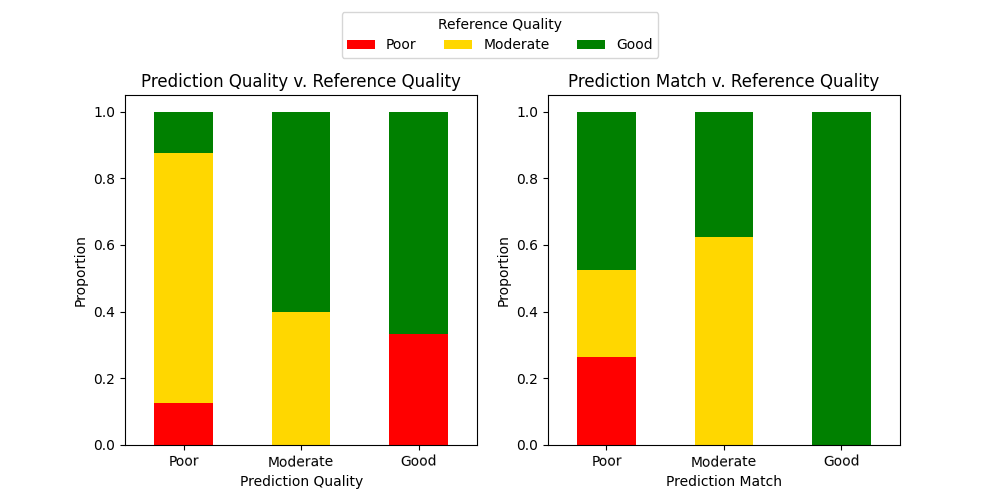
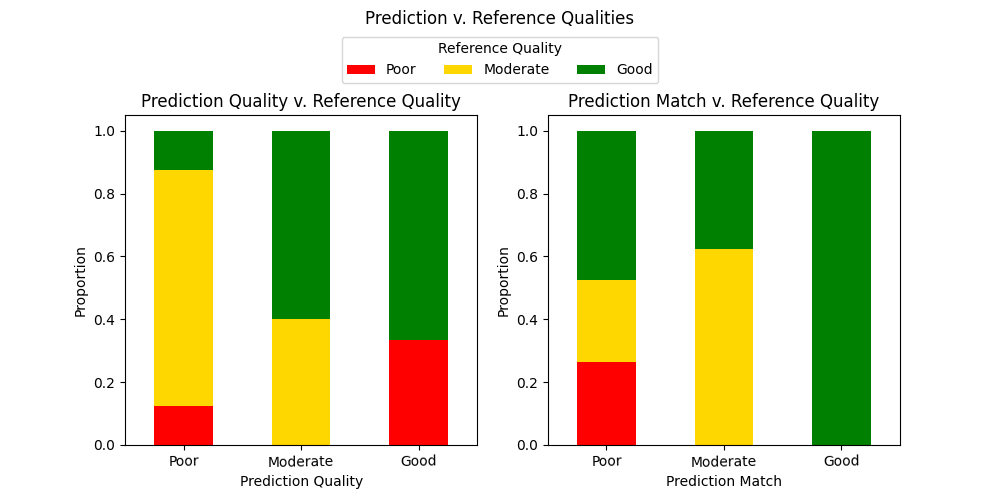
Update viz

diff --git a/visualizations/qualitative/stacked_bar.py b/visualizations/qualitative/stacked_bar.py
@@ -35,6 +35,7 @@ def stacked_bar(type, ax):
 fig, ((ax1), (ax2)) = plt.subplots(1, 2, figsize=(10,5))
 stacked_bar('Prediction Quality', ax1)
 stacked_bar('Prediction Match', ax2)
-fig.subplots_adjust(top=0.81)
-fig.legend(['Poor', 'Moderate', 'Good'], title='Reference Quality', loc='upper center', ncol=3, bbox_to_anchor=(0.5, 0.99))
+fig.subplots_adjust(top=0.77)
+fig.suptitle('Prediction v. Reference Qualities')
+fig.legend(['Poor', 'Moderate', 'Good'], title='Reference Quality', loc='upper center', ncol=3, bbox_to_anchor=(0.5, 0.94))
 plt.savefig('stacked_bar.png')
